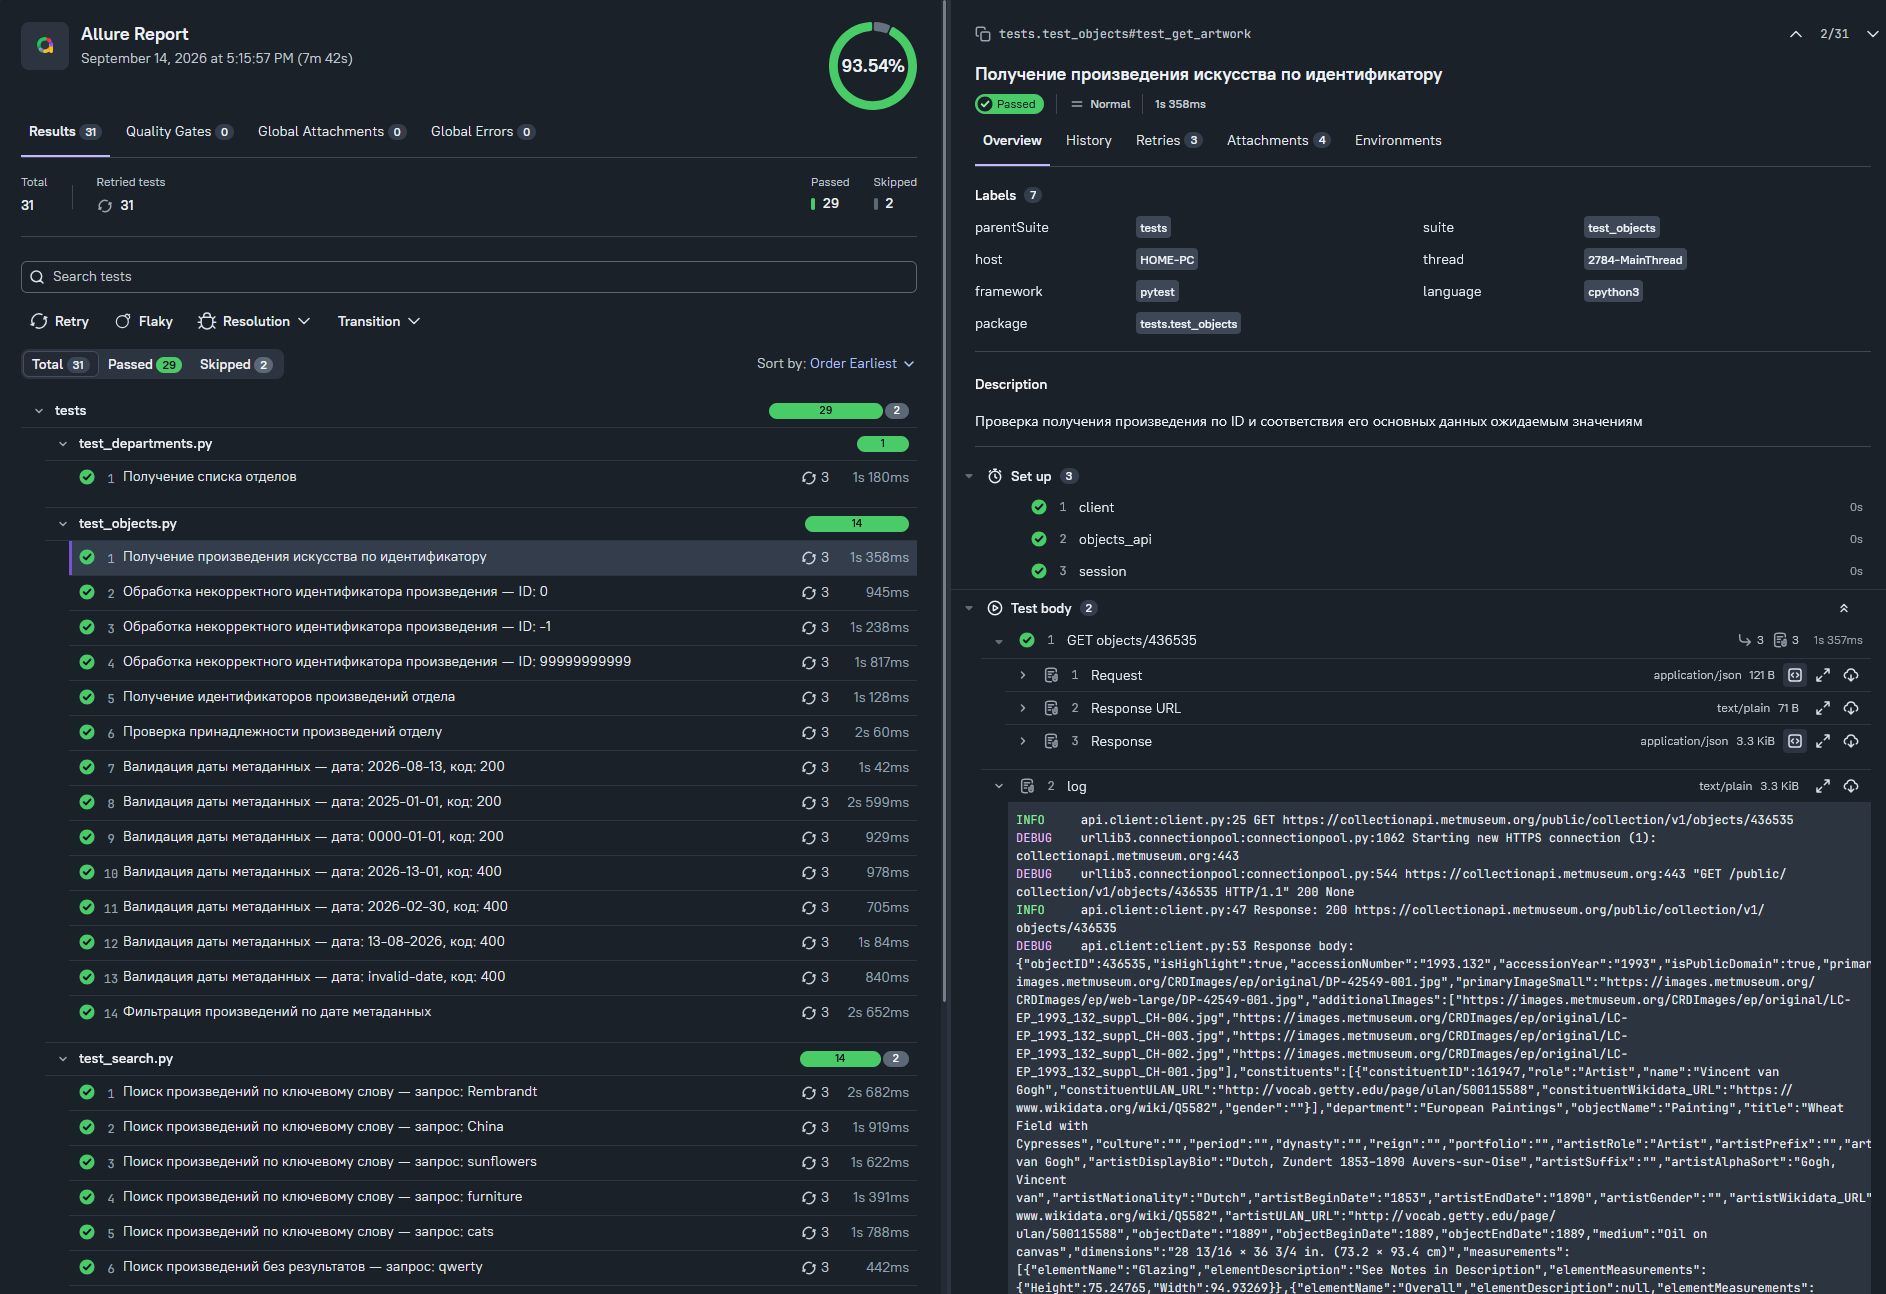
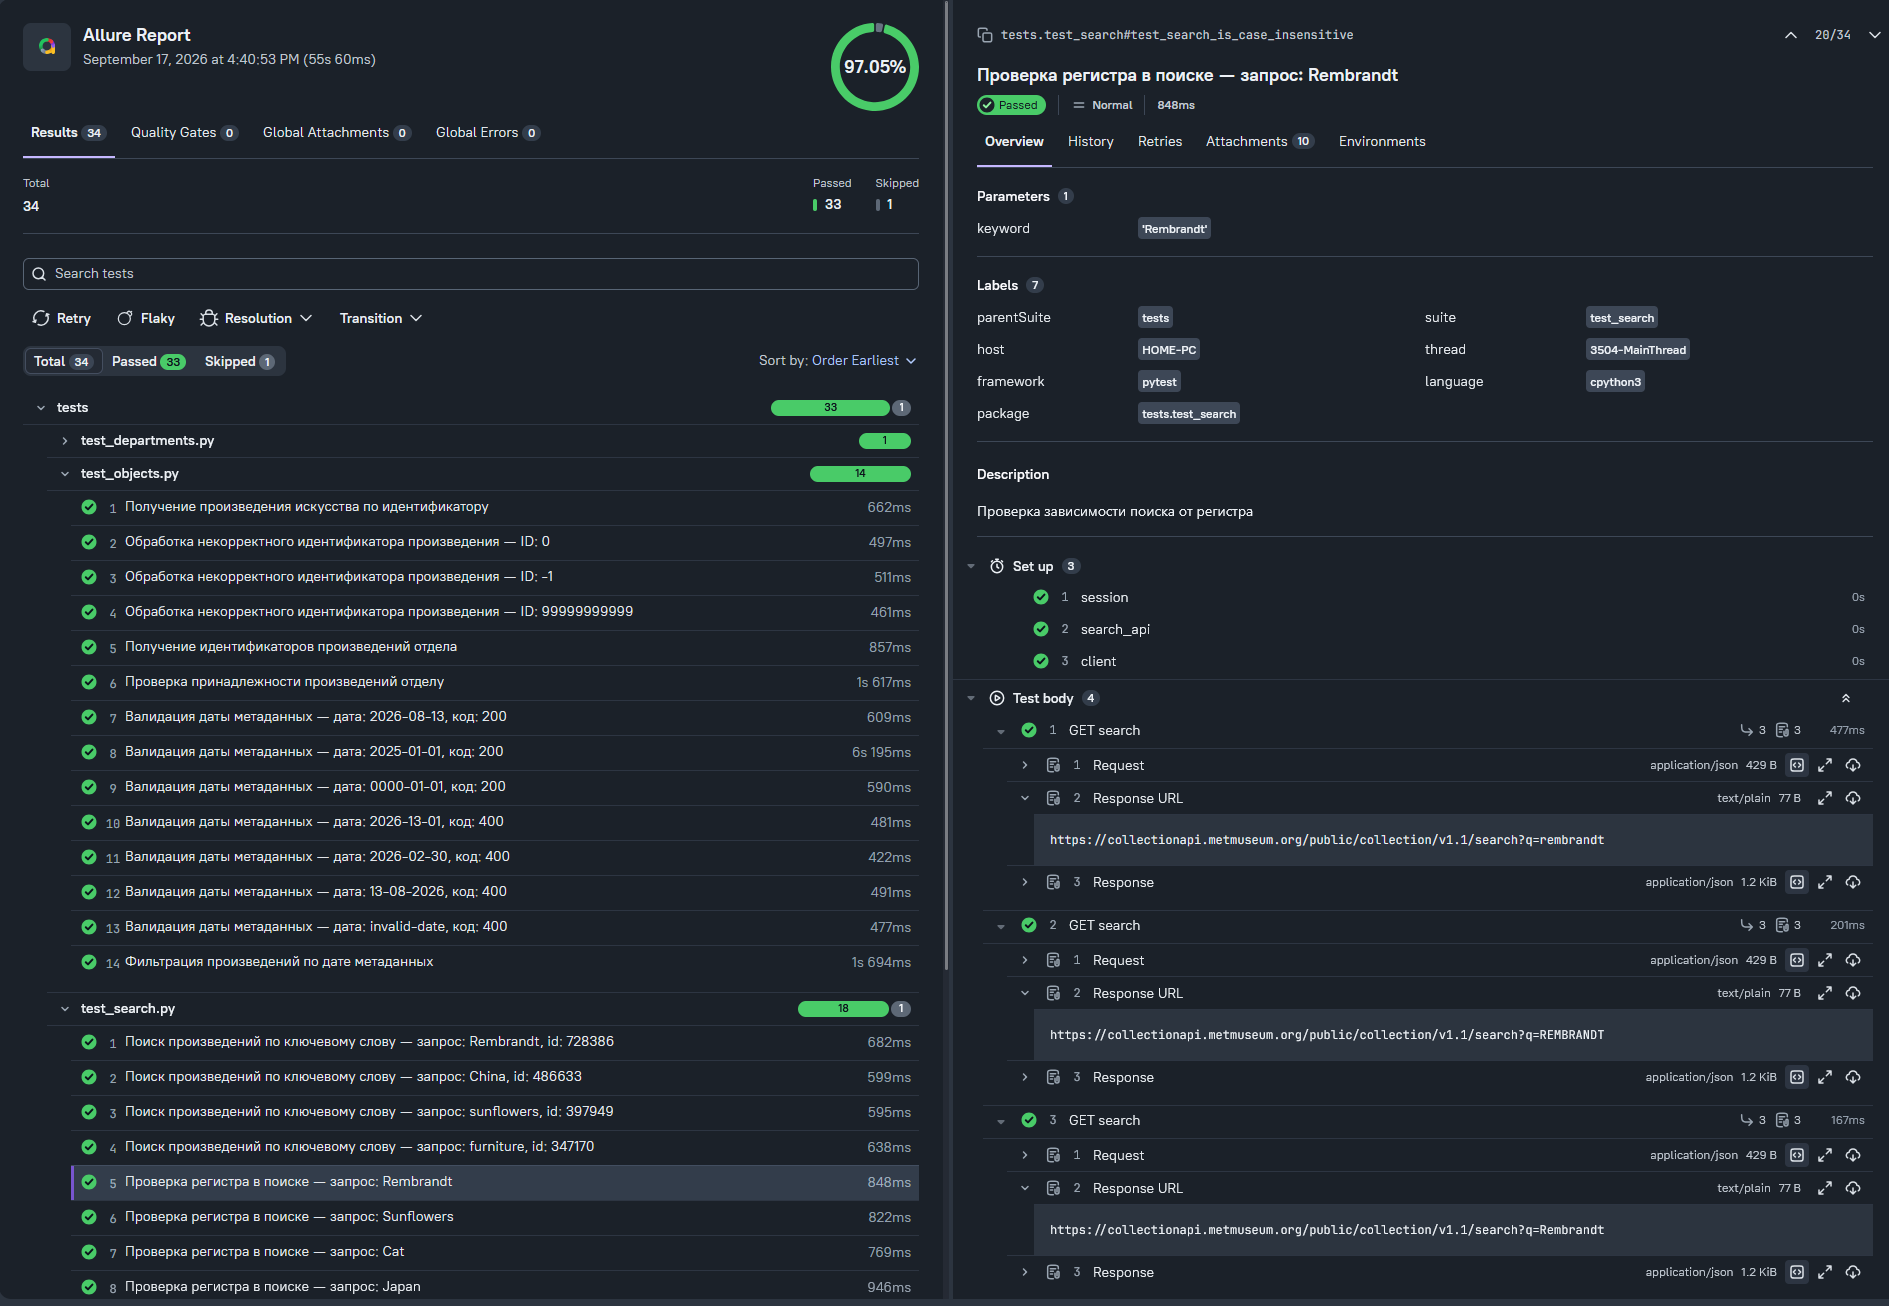
fix

diff --git a/tests/test_search.py b/tests/test_search.py
@@ -3,7 +3,7 @@ from api import SearchApi, ObjectsApi
 from models import ObjectList, Artwork
 
 @pytest.mark.parametrize(
-    ("keyword", "expected_object_id"),
+    ("keyword", "id"),
     [
         ("Rembrandt", 728386),
         ("China", 486633),
@@ -12,7 +12,7 @@ from models import ObjectList, Artwork
     ],
 )
 def test_search_by_keyword(search_api: SearchApi, objects_api: ObjectsApi,
-                           keyword: str, expected_object_id: int) -> None:
+                           keyword: str, id: int) -> None:
     search_response = search_api.search(keyword, limit=5, title=True)
 
     assert search_response.status_code == 200, "Неожиданный статус-код"
@@ -21,16 +21,16 @@ def test_search_by_keyword(search_api: SearchApi, objects_api: ObjectsApi,
 
     assert search_result.object_ids, f"Поиск по '{keyword}' не вернул результатов"
 
-    object_response = objects_api.get_object(expected_object_id)
+    object_response = objects_api.get_object(id)
 
-    assert object_response.status_code == 200, f"Неожиданный статус-код при получении объекта {expected_object_id}"
+    assert object_response.status_code == 200, f"Неожиданный статус-код при получении объекта {id}"
 
     artwork = Artwork.model_validate(object_response.json())
 
     assert keyword.lower() in artwork.title.lower(), (f"Ключевое слово '{keyword}'"
-                                                      f" отсутствует в названии объекта {expected_object_id}")
+                                                      f" отсутствует в названии объекта {id}")
 
-    assert expected_object_id in search_result.object_ids, (f"Ожидаемый объект {expected_object_id}"
+    assert id in search_result.object_ids, (f"Ожидаемый объект {id}"
                                                             f" отсутствует в результатах поиска по '{keyword}'")
 
 @pytest.mark.parametrize(

diff --git a/utils/test_metadata.py b/utils/test_metadata.py
@@ -72,4 +72,8 @@ TEST_METADATA = {
         "title": "Фильтрация результатов поиска по диапазону дат",
         "description": "Проверка соответствия дат найденных произведений заданному диапазону dateBegin и dateEnd",
     },
+    "test_search_is_case_insensitive": {
+        "title": "Проверка регистра в поиске",
+        "description": "Проверка зависимости поиска от регистра",
+    },
 }

diff --git a/README.md b/README.md
@@ -9,19 +9,18 @@
 | API | Проверяемые сценарии |
 |---|---|
 | **Objects API** | Получение произведения по ID, обработка некорректного ID, получение объектов отдела, проверка принадлежности к отделу, валидация даты метаданных, фильтрация по дате |
-| **Search API** | Поиск по ключевому слову, отсутствие результатов, `limit`, `offset`, `hasImages`, `isHighlight`, фильтрация по отделу, диапазон дат, порядок query-параметров, превышение `limit` |
+| **Search API** | Поиск по ключевому слову, регистр, отсутствие результатов, `limit`, `offset`, `hasImages`, `isHighlight`, фильтрация по отделу, диапазон дат, порядок query-параметров, превышение `limit` |
 | **Departments API** | Получение списка отделов, проверка уникальности ID и наличия названий |
 
 ---
 
 ## Найденные проблемы API
 
-В ходе тестирования были обнаружены две проблемы:
+В ходе тестирования была обнаружена проблема:
 
 - `hasImages=true` — API может возвращать произведения без изображений;
-- `isHighlight=true` — API может возвращать произведения с `isHighlight=false`.
 
-Оба случая зафиксированы отдельными тестами и отмечены как `xfail`, поскольку проблема находится на стороне API.
+Случай зафиксирован отдельным тестом и отмечен как `xfail`, поскольку проблема находится на стороне API.
 
 ---
 
